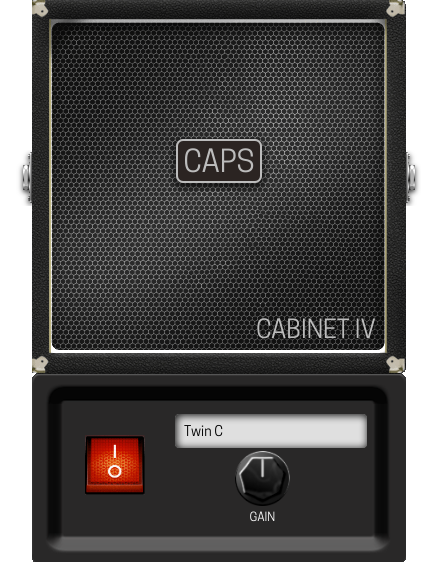
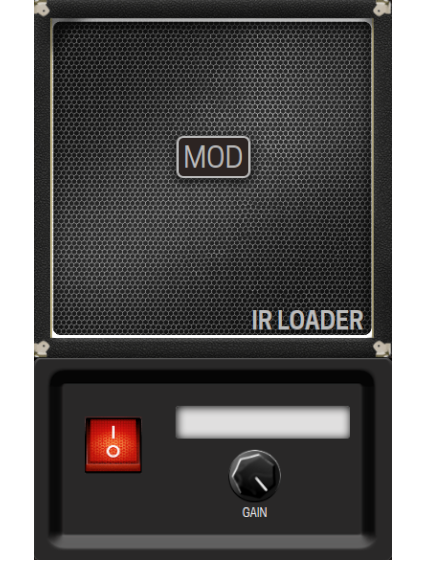
Changed parameter name and added dropdown menu

diff --git a/source/cabsim-IR-loader.lv2/modgui/icon-cabsim-IR-loader.html b/source/cabsim-IR-loader.lv2/modgui/icon-cabsim-IR-loader.html
@@ -50,6 +50,20 @@
                 </div>
             </div>
             <div class="mod-control-group group2 clearfix">
+                <div class="mod-control-group mod-enumerated-group bottom clearfix">
+                    {{#effect.parameters}}
+                    {{#path}}
+                    <div class="mod-enumerated" mod-role="input-parameter" mod-parameter-uri="{{uri}}" mod-widget="custom-select-path">
+                        <div mod-role="input-parameter-value" mod-parameter-uri="{{uri}}" class="mod-enumerated-selected"></div>
+                        <div class="mod-enumerated-list">
+                            {{#files}}
+                            <div mod-role="enumeration-option" mod-parameter-value="{{fullname}}">{{basename}}</div>
+                            {{/files}}
+                        </div>
+                    </div>
+                    {{/path}}
+                    {{/effect.parameters}}
+                </div>
                 {{#controls.0}}
                 <div class="mod-knob">
                     <div class="mod-knob-image" mod-role="input-control-port" mod-port-symbol="{{symbol}}"></div>

diff --git a/source/cabsim-IR-loader.lv2/modgui/stylesheet-cabsim-IR-loader.css b/source/cabsim-IR-loader.lv2/modgui/stylesheet-cabsim-IR-loader.css
@@ -150,6 +150,17 @@
 }
 
 /* ENUMERATED LIST */
+
+
+.mod-cabinet{{{cns}}} .mod-enumerated-group {
+    height:31px;
+    margin:20px auto 0 !important;
+    position:relative;
+    width:190px;
+    top:-10px;
+    z-index:35;
+}
+
 .mod-cabinet{{{cns}}} .mod-enumerated {
     color: #000;
     display: inline-block;
@@ -221,7 +232,7 @@
     background-repeat: no-repeat;
     background-size: auto 55px;
     height: 55px;
-    margin-top: 3px;
+    margin-top: 5px;
     position: relative;
     width: 55px;
     z-index: 2;
